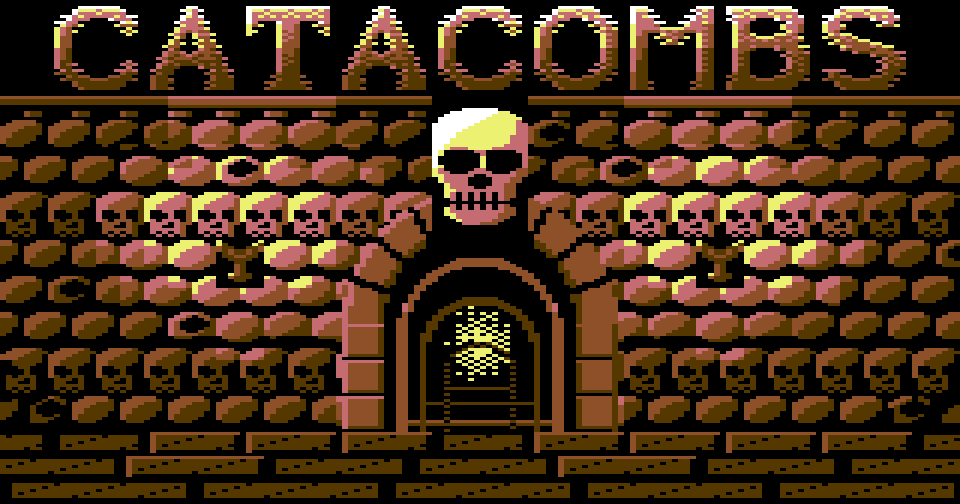
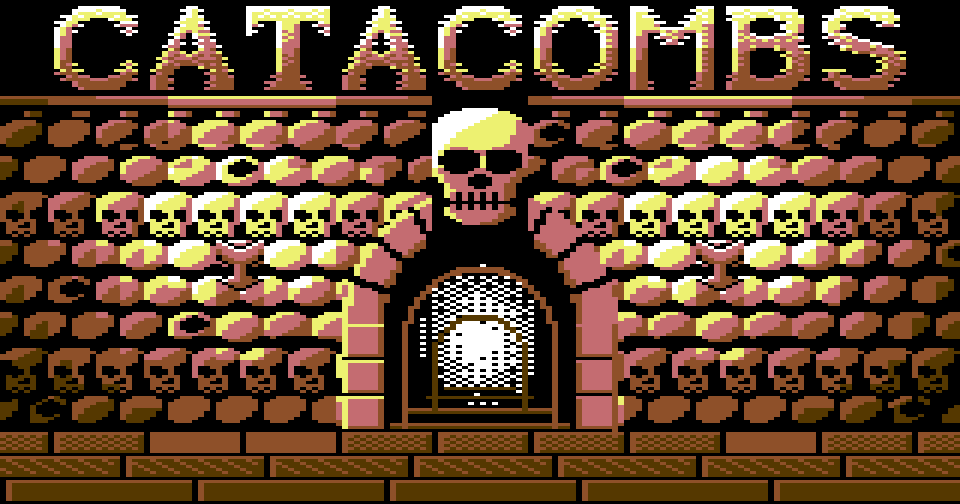
Catacombs title: slimmer screen code, larger bone tiles, sconces, flames, brighter victory palette

diff --git a/Catacombs/art/title_art.py b/Catacombs/art/title_art.py
@@ -59,8 +59,9 @@ BRIGHT = {v: k for k, v in DIM.items()}
 # Game over: the torches are out. Warm light turns to cold stone, the darkest
 # warm tone and the glow in the gate turn blood red.
 GAMEOVER = {YELLOW: GREY3, LRED: GREY2, ORANGE: GREY1, BROWN: RED, VIOLET: RED}
-# Victory: daylight. Cold stone turns gold, the gate glows.
-VICTORY = {BLUE: BROWN, GREY1: ORANGE, GREY2: LRED, GREY3: YELLOW, VIOLET: YELLOW}
+# Victory: daylight. Everything a step brighter and warm, the gate blazes.
+VICTORY = {BLUE: BROWN, GREY1: ORANGE, GREY2: LRED, GREY3: YELLOW, VIOLET: WHITE,
+           BROWN: ORANGE, ORANGE: LRED, LRED: YELLOW, YELLOW: WHITE}
 # Fade to black, applied repeatedly; works on any screen (the game's too).
 DARKEN = {WHITE: GREY3, GREY3: GREY2, GREY2: GREY1, GREY1: BLUE, BLUE: BLACK,
           YELLOW: LRED, LRED: ORANGE, ORANGE: BROWN, BROWN: BLACK, RED: BLACK,
@@ -299,17 +300,18 @@ def cornice():
 def floor():
     """Rows 18-20: three courses of flagstones, larger towards the viewer.
     Each stone is whole cells wide and has one palette, so the light falls
-    off stone by stone."""
+    off stone by stone; the faces go from a light/mid dither at the wall to
+    plain mid tone at the front."""
     for n, (width, offset) in enumerate(((4, 2), (6, -1), (8, 0))):
         r = 18 + n
         y0 = r * 8
         for c in range(COLS):
             k = (c - offset) % width            # cell within its stone
             first = c - k
-            lv = cell_light(first + width / 2.0 - 0.5, 16) - 0.6 - n * 0.8
+            lv = cell_light(first + width / 2.0 - 0.5, 16) - 0.4 - n * 0.6
             if rnd('f', first, n) < 0.25:
                 lv -= 1.0
-            pal[r][c] = level_pal(max(1.0, lv))
+            pal[r][c] = level_pal(max(2.0, lv))
             for y in range(8):
                 for x in range(4):
                     px = k * 4 + x              # pixel within the stone
@@ -318,9 +320,13 @@ def floor():
                     elif y == 0 or px == 1:
                         v = 1                   # lit top and left edges
                     elif px == width * 4 - 1 or y == 6:
-                        v = 3                   # shaded right and bottom edges
+                        v = 2                   # shaded right and bottom edges
+                    elif n == 0:
+                        v = 1 if (px + y) & 1 else 2
+                    elif n == 1:
+                        v = 1 if (px & 3) == (y & 3) else 2
                     else:
-                        v = 3 if (px * 7 + y * 3) % 11 == 0 else 2   # a worn face
+                        v = 2
                     put(c * 4 + x, y0 + y, v)
 
 
@@ -404,31 +410,24 @@ BAYER = [[0, 8, 2, 10], [12, 4, 14, 6], [3, 11, 1, 9], [15, 7, 13, 5]]
 
 
 def void(x, y):
-    """Through the gate: a vaulted stair going down, three receding arches and
-    their steps, and a glow at the bottom of it."""
+    """Through the gate: a vaulted stair going down -- two receding arches,
+    the treads narrowing below them -- into a glow."""
     dx = (x - CX) * 2.0
-    for k, (radius, drop) in enumerate(((25.0, 5), (18.0, 11), (11.0, 18))):
+    for k, (radius, drop) in enumerate(((24.0, 6), (15.0, 13))):
         sy = SPRING_Y + drop
-        if y < sy:
-            u = math.hypot(dx, y - sy)
-        else:
-            u = abs(dx)
-        if radius <= u < radius + (3.0 if k < 2 else 2.0):
-            if k == 0:
-                return 1
-            return 2 if k == 1 or (x + y) & 1 else 0
-        # treads between this arch and the next one out
-    # steps: horizontal treads narrowing as they go down and away
-    for k, (half, y0) in enumerate(((25.0, 140), (18.0, 134), (11.0, 129))):
-        if y == y0 and abs(dx) < half:
+        u = math.hypot(dx, y - sy) if y < sy else abs(dx)
+        if radius <= u < radius + 2.0 and y < 143 - k * 6:
             return 1 if k == 0 else 2
-        if y == y0 + 1 and abs(dx) < half and k == 0:
-            return 2
+    for k, (half, y0) in enumerate(((30.0, 141), (24.0, 136), (18.0, 132), (13.0, 129))):
+        if abs(dx) < half:
+            if y == y0:
+                return 1 if k < 2 else 2
+            if y == y0 + 1:
+                return 2 if k < 2 else 0
     # the glow: densest at the far end of the stair
-    gx, gy = 0.0, SPRING_Y + 6
-    d = math.hypot(dx * 0.9, (y - gy) * 0.8)
-    if d < 11:
-        level = 1.0 - d / 11.0
+    d = math.hypot(dx * 0.75, (y - (SPRING_Y + 4)) * 0.62)
+    if d < 15:
+        level = 1.15 - d / 15.0
         return 3 if level * 16 > BAYER[y & 3][x & 3] else 0
     return 0
 
@@ -525,31 +524,30 @@ def keystone():
 
 
 def torches():
-    """The iron baskets; the flames themselves are sprites."""
-    basket = ["a......a",
-              "ac....ac",
-              "bcc..ccb",
-              "bcbccbcb",
-              ".cbccbc.",
+    """The wall sconces; the flames themselves are sprites. ' ' leaves the
+    wall alone, '.' is the black outline."""
+    sconce = ["a.    .a",
+              "ba.  .ab",
+              "bba..abb",
+              "cbbaabbc",
+              "cbbbbbbc",
+              ".cbbbbc.",
               ".ccbbcc.",
-              "..cccc..",
-              "...cc...",
-              "...bc...",
-              "...bc...",
-              "...bc...",
-              "..abcc..",
-              "..bccc..",
-              "...cc...",
-              "........",
-              "........"]
+              " .cccc. ",
+              "  .bc.  ",
+              "  .bc.  ",
+              "  .bc.  ",
+              " ..bc.. ",
+              " .abcc. ",
+              ".abbccc.",
+              " .cccc. ",
+              "  .cc.  ",
+              "   ..   "]
     for tx in TORCH_X:
         x0 = tx - 4
-        for y in range(80, 96):
-            for x in range(x0, x0 + 8):
-                put(x, y, 0)
-        stamp(x0, 80, basket)
+        stamp(x0, 80, sconce, transparent=' ')
         c = x0 // 4
-        set_pal(c, 10, c + 1, 11, (YELLOW, ORANGE, BROWN))
+        set_pal(c, 10, c + 1, 12, (YELLOW, ORANGE, BROWN))
 
 
 # ---------------------------------------------------------------------------
@@ -558,23 +556,23 @@ def torches():
 # ---------------------------------------------------------------------------
 SPRITE_FRAMES = [
     # 0-2: the torch flame
-    ["............", ".....x......", ".....x......", "....xo......", "....xox.....", "....ooo.....",
-     "...xooox....", "...oooyo....", "...ooyyox...", "..xoyyyoo...", "..ooyyyyo...", "..oyyyyyox..",
-     ".xoyyyyyoo..", ".ooyyyyyyo..", ".ooyyyyyyo..", ".xoyyyyyyo..", "..oyyyyyoo..", "..ooyyyyox..",
-     "...ooyyoo...", "....oooo....", "............"],
-    ["............", "............", ".......x....", "......xo....", "......oox...", ".....xoo....",
-     ".....ooox...", "....xoyoo...", "....ooyyo...", "...xoyyyox..", "...ooyyyoo..", "..xoyyyyyo..",
-     "..ooyyyyyox.", "..oyyyyyyoo.", ".xoyyyyyyoo.", ".ooyyyyyyo..", "..oyyyyyyo..", "..xoyyyyoo..",
-     "...ooyyoo...", "....oooo....", "............"],
-    ["......x.....", "............", "....x.......", "....ox......", "...xoo......", "....oox.....",
-     "...xooo.....", "...ooyox....", "..xoyyoo....", "..ooyyyo....", "..oyyyyox...", ".xoyyyyoo...",
-     ".ooyyyyyox..", ".oyyyyyyoo..", ".ooyyyyyyo..", ".xoyyyyyyox.", "..oyyyyyoo..", "..ooyyyyo...",
-     "...ooyyoo...", "....oooo....", "............"],
-    # 3: a hooded figure with a lantern, seen from behind on the stair
-    ["............", "....xxx.....", "...xxxxx....", "...xxxxx....", "...xxxxx....", "...xxxxx....",
-     "..xxxxxxx...", "..xxxxxxx.y.", ".xxxxxxxxoyo", ".xxxxxxx.yyy", ".xxxxxxx.oyo", ".xxxxxxx....",
-     ".xxxxxxx....", ".xxxxxxx....", ".xxxxxxxx...", ".xxxxxxxx...", "xxxxxxxxx...", "xxxxxxxxx...",
-     "xxxxxxxxx...", "xxxxxxxxxx..", "............"],
+    [".....x......", ".....xx.....", "....xox.....", "....xoox....", "...xooox....", "...xoyoox...",
+     "..xooyyox...", "..xoyyyoox..", ".xooyyyyox..", ".xoyyyyyoox.", ".xoyyyyyyox.", "xooyyyyyyoox",
+     "xoyyyyyyyyox", "xoyyyyyyyyox", "xooyyyyyyoox", ".xoyyyyyyox.", ".xooyyyyoox.", "..xooyyoox..",
+     "...xoooox...", "....xxxx....", "............"],
+    ["......x.....", ".......x....", "......xx....", ".....xoox...", ".....xoox...", "....xooox...",
+     "...xoyoox...", "...xoyyoox..", "..xooyyyox..", "..xoyyyyoox.", ".xooyyyyyox.", ".xoyyyyyyox.",
+     "xooyyyyyyoox", "xoyyyyyyyyox", "xoyyyyyyyyox", ".xoyyyyyyoox", ".xooyyyyyox.", "..xooyyyox..",
+     "...xoooox...", "....xxxx....", "............"],
+    ["....x.......", "............", "...xx.......", "...xox......", "..xoox......", "..xooox.....",
+     "..xooyox....", ".xooyyox....", ".xoyyyoox...", ".xoyyyyox...", "xooyyyyoox..", "xoyyyyyyox..",
+     "xoyyyyyyoox.", "xoyyyyyyyox.", "xooyyyyyyox.", ".xoyyyyyyox.", ".xooyyyyoox.", "..xooyyoox..",
+     "...xoooox...", "....xxxx....", "............"],
+    # 3: a hooded figure holding out a lantern, on the stair
+    ["............", ".....xx.....", "....xxxx....", "....xxxx....", "....x..x....", "...xxxxxx...",
+     "..xxxxxxxx..", "..xxxxxxxx.y", ".xxxxxxxxxoy", ".xxxxxxxx.yy", ".xxxxxxxx.oy", ".xxxxxxxx...",
+     ".xxxxxxxx...", ".xxxxxxxx...", ".xxxxxxxxx..", ".xxxxxxxxx..", "xxxxxxxxxx..", "xxxxxxxxxx..",
+     "xxxxxxxxxxx.", "xxxxxxxxxxx.", "............"],
     # 4: eyes for the keystone skull's sockets
     ["............", "............", "............", "............", "............", "............",
      "............", "............", ".xox....xox.", "xoyox..xoyox", "xoyox..xoyox", ".xox....xox.",
@@ -585,7 +583,7 @@ SPRITE_FRAMES = [
      ".....x......", "....xyx.....", "..xxyyyxx...", "....xyx.....", ".....x......", ".....x......",
      ".....x......", ".....x......", "............", "............", "............", "............",
      "............", "............", "............"],
-    # 6: embers / smoke (own colour only, so the code can recolour it)
+    # 6: embers (own colour only, so the code can recolour them)
     ["............", ".....x......", "............", "............", "........x...", "............",
      "............", "..x.........", "............", "............", "......x.....", "............",
      "............", "............", "...x........", "............", "............", ".......x....",

diff --git a/Catacombs/TitleScreen.cs b/Catacombs/TitleScreen.cs
@@ -29,7 +29,7 @@ using C64Lib;
 pal_Dim     .byte 0,15,2,3,4,5,0,10,9,2,8,6,11,13,14,12
 pal_Bright  .byte 6,1,9,3,4,5,11,7,10,8,7,12,15,13,14,1
 pal_Dead    .byte 6,1,2,3,2,5,11,15,12,11,15,12,15,13,14,1
-pal_Dawn    .byte 9,1,9,3,7,5,8,7,10,8,7,10,7,13,14,1
+pal_Dawn    .byte 9,1,8,3,1,5,8,1,7,10,1,10,7,13,14,1
 pal_Darken  .byte 0,15,0,14,6,11,0,10,9,0,8,6,11,5,6,12
 ttl_Pos     .byte 0,54, 92,110, 252,110, 92,90, 252,100, 172,93, 174,168, 174,150, 0
 ttl_Look    .byte 0,$ff,0, 0,0, 0,0, 0,0,0, 7,8, 1,2,2,8,10,2,11,1
@@ -71,13 +71,14 @@ static class TitleScreen
     static ulong glint_;
     static ulong table_;
 #if SCENE
-    static ulong timer_;
+    // Scene builds: leave the screen by itself after this many video frames
+    // (0 = stay). Set before Show().
+    public static ulong Timer;
 #endif
 
     // Shows a screen and returns when fire / SPACE is pressed. `value` is the
     // number shown: relics recovered (game over), health left (victory).
-    // Scene builds: also returns after `frames` video frames, if not 0.
-    public static void Show(uint kind, uint value, ulong frames)
+    public static void Show(uint kind, uint value)
     {
         kind_ = kind;
         flame_ = (uint)C64Address.FromLabel("frm_Title");
@@ -140,13 +141,10 @@ static class TitleScreen
         lit_ = 1;
         armed_ = 0;
         glint_ = 400;
-#if SCENE
-        timer_ = frames;
-#endif
         while (Animate())
         {
         }
-        C64.FillMemory(SpriteEnable, 0, 1);
+        FadeOut();
     }
 
     // One video frame of the screen's life. False when it is time to leave.
@@ -155,9 +153,10 @@ static class TitleScreen
         C64.Screen.WaitForVBlank();
         tick_++;
 
-        // Torch light: the cells around each flame drop a step and come back,
-        // at random. First thing in the frame, ahead of the beam.
-        if (kind_ != GameOver && (C64.Random() & 15) == 0)
+        // Torch light: the cells around each flame drop a step and come
+        // back, at random. First thing in the frame, ahead of
+        // the beam.
+        if (kind_ == Title && (C64.Random() & 15) == 0)
         {
             lit_ = lit_ ^ 1;
             table_ = C64Address.FromLabel("pal_Bright");
@@ -175,14 +174,9 @@ static class TitleScreen
                 phase_ = 0;
             C64.Sprites.Sprite1.Frame = flame_ + phase_;
             C64.Sprites.Sprite2.Frame = flame_ + 2 - phase_;
+            // The prompt pulses white / yellow (0x10 / 0x70).
             if (kind_ == Title)
-            {
-                // The prompt pulses white / yellow.
-                column_ = 0x10;
-                if ((tick_ & 32) != 0)
-                    column_ = 0x70;
-                C64.Screen.SetCellColors(10, PromptRow, 19, 1, column_, Colors.Black);
-            }
+                C64.Screen.SetCellColors(10, PromptRow, 19, 1, 0x10 + (tick_ & 0x20) * 3, Colors.Black);
         }
 
         // Embers climb from the flames and start over.
@@ -203,22 +197,18 @@ static class TitleScreen
 
         if (kind_ == Title && tick_ == 128)
         {
-            info_++;
-            if (info_ == 3)
-                info_ = 0;
+            info_ = info_ ^ 1;
             if (info_ == 0)
-                C64.Screen.DrawText(2, InfoRow, "RECOVER THE THREE RELICS AND ESCAPE ", 0xF0);
-            if (info_ == 1)
-                C64.Screen.DrawText(2, InfoRow, "  W A S D TO WALK - SPACE TO ACT    ", 0xF0);
-            if (info_ == 2)
-                C64.Screen.DrawText(2, InfoRow, " A C# GAME FOR THE C64 - B. MOLNAR  ", 0xF0);
+                C64.Screen.DrawText(3, InfoRow, "STEAL THE 3 RELICS AND ESCAPE ALIVE", 0xF0);
+            else
+                C64.Screen.DrawText(3, InfoRow, "  W A S D: WALK    SPACE: ACT      ", 0xF0);
         }
 
 #if SCENE
-        if (timer_ != 0)
+        if (Timer != 0)
         {
-            timer_ = timer_ - 1;
-            if (timer_ == 0)
+            Timer = Timer - 1;
+            if (Timer == 0)
                 return false;
         }
 #endif
@@ -232,25 +222,16 @@ static class TitleScreen
         return armed_ == 0;
     }
 
-    // Any screen to black: five darkening waves close in from both sides.
-    // Leaves an empty bitmap with black colours, no split and no sprites.
+    // Any screen to black, the game's rooms included: five darkening passes
+    // roll down it. Leaves an empty bitmap with black colours, no split and
+    // no sprites.
     public static void FadeOut()
     {
         C64.FillMemory(SpriteEnable, 0, 1);
-        table_ = C64Address.FromLabel("pal_Darken");
-        for (tick_ = 0; tick_ < 28; tick_++)
+        for (column_ = 0; column_ < 5; column_++)
         {
             C64.Screen.WaitForVBlank();
-            column_ = tick_;
-            for (phase_ = 0; phase_ < 5; phase_++)
-            {
-                if (column_ < 20)   // (it wraps past zero: that wave has not started)
-                {
-                    C64.Screen.RemapCellColors(column_, 0, 1, 25, table_);
-                    C64.Screen.RemapCellColors(39 - column_, 0, 1, 25, table_);
-                }
-                column_ = column_ - 2;
-            }
+            C64.Screen.RemapCellColors(0, 0, 40, 25, C64Address.FromLabel("pal_Darken"));
         }
         C64.Screen.SetBorderColor(Colors.Black);
         C64.Screen.SetBackgroundColor(Colors.Black);

diff --git a/Catacombs/GameFlow.cs b/Catacombs/GameFlow.cs
@@ -52,28 +52,25 @@ static class GameFlow
     public static void BeforeGame()
     {
 #if SCENE_GAMEOVER
-        TitleScreen.Show(TitleScreen.GameOver, 1, 0);
+        TitleScreen.Show(TitleScreen.GameOver, 1);
 #elif SCENE_VICTORY
-        TitleScreen.Show(TitleScreen.Victory, 64, 0);
+        TitleScreen.Show(TitleScreen.Victory, 64);
 #elif SCENE_FLOW
-        TitleScreen.Show(TitleScreen.Title, 0, 300);
-        TitleScreen.FadeOut();
+        TitleScreen.Timer = 300;
+        TitleScreen.Show(TitleScreen.Title, 0);
         runs_ = runs_ + 1;
         clock_ = 0;
 #elif SCENE_RESTART
         runs_ = runs_ + 1;
         if (runs_ > 200)
-        {
-            TitleScreen.Show(TitleScreen.Title, 0, 0);
-            TitleScreen.FadeOut();
-        }
+            TitleScreen.Show(TitleScreen.Title, 0);
 #elif !SCENE
-        TitleScreen.Show(TitleScreen.Title, 0, 0);
-        TitleScreen.FadeOut();
+        TitleScreen.Show(TitleScreen.Title, 0);
 #endif
         outcome_ = 0;
     }
 
+    // `health`: what the player has left (shown on the victory screen).
     public static void AfterGame(uint health)
     {
 #if SCENE_RESTART
@@ -82,11 +79,11 @@ static class GameFlow
 #endif
         TitleScreen.FadeOut();
 #if SCENE_FLOW
-        TitleScreen.Show(outcome_, outcome_ == TitleScreen.Victory ? 64U : 1U, 300);
-#else
-        TitleScreen.Show(outcome_, outcome_ == TitleScreen.Victory ? health : Item.CollectedCount, 0);
+        TitleScreen.Timer = 300;
 #endif
-        TitleScreen.FadeOut();
+        if (outcome_ == TitleScreen.GameOver)
+            health = Item.CollectedCount;
+        TitleScreen.Show(outcome_, health);
     }
 
     public static void Lose()
